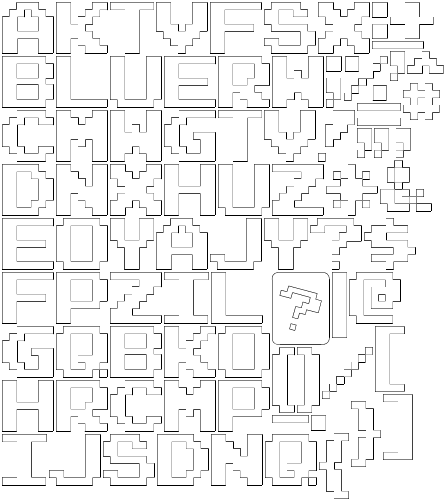
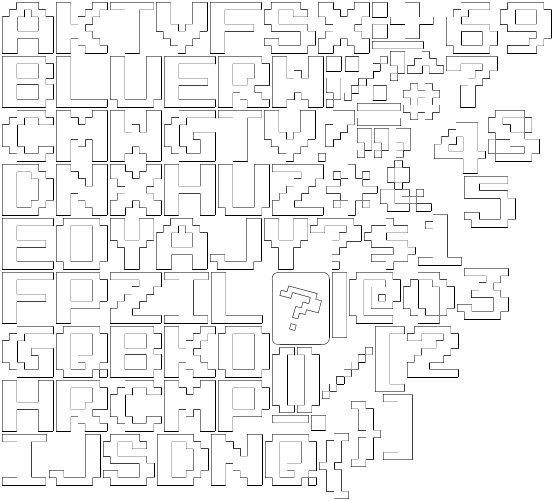
Edited font file to include numbers; moved headsupdisplay text to left of screen

diff --git a/public/javascript/application.js b/public/javascript/application.js
@@ -352,21 +352,13 @@ Tan.LevelOne.prototype = {
         }
 
         function anchorAndFixToCam(obj){
-            // obj.anchor.setTo(0.5, 0.5);
             obj.fixedToCamera = true;
             return obj;
         }
 
-        function createHeadsUpText(xPos, yPos, text){
-            // var text = game.add.text(xPos, yPos, text);
-            var text = game.add.bitmapText(xPos, yPos, 'font', text, 30);
-
-            // var text = game.add.bitmapText(xPos, yPos, 'font', text, 64)
-            // var text = game.add.bitmapText(200, 100, 'font','Phaser & Pixi \nrocking!', 64)
-
-            // this.add.text(70, 380, “TOUCH TO\nSTART”, {font: “30px Orbitron”, align:”center”, fill:”#fff”});
+        function createHeadsUpText(xPos, yPos, text, size){
+            var text = game.add.bitmapText(xPos, yPos, 'font', text, size);
             anchorAndFixToCam(text);
-            // text.font = 'Press+Start+2P';
             return text;
         }
 
@@ -378,15 +370,15 @@ Tan.LevelOne.prototype = {
 
         // Creates head up display
         function createHeadsUpDisplay(){
-            var marginTop = 30;
+            var margin = 30;
 
-            createHeadsUpText(100, marginTop, "Tan's Grams:");
-            createHeadsUpText(740, marginTop, "x ");
+            createHeadsUpText(margin, margin, "Tan's Grams:", 20);
 
-            coinText = createHeadsUpText(760, 30, null);
-            coinText.text = coinCount;
+            createHeadsUpIcon(35, 55, 'displayCoin');
+            createHeadsUpText(63, 57, "x ", 15);
+            coinText = createHeadsUpText(85, 55, coinCount.toString(), 20);
 
-            createHeadsUpIcon(700, marginTop + 2, 'displayCoin');
+
 
             toggler = createHeadsUpIcon(game.camera.view.x + 50, game.camera.view.y + 275, 'toggler');
             toggler.displayed = false;
